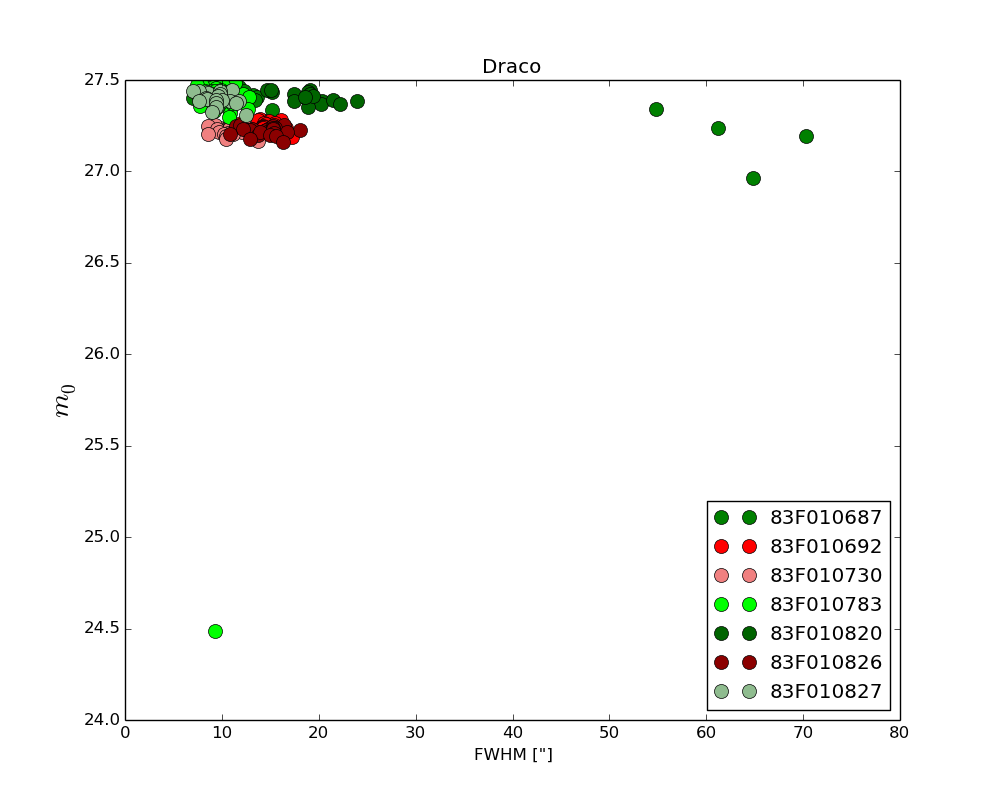
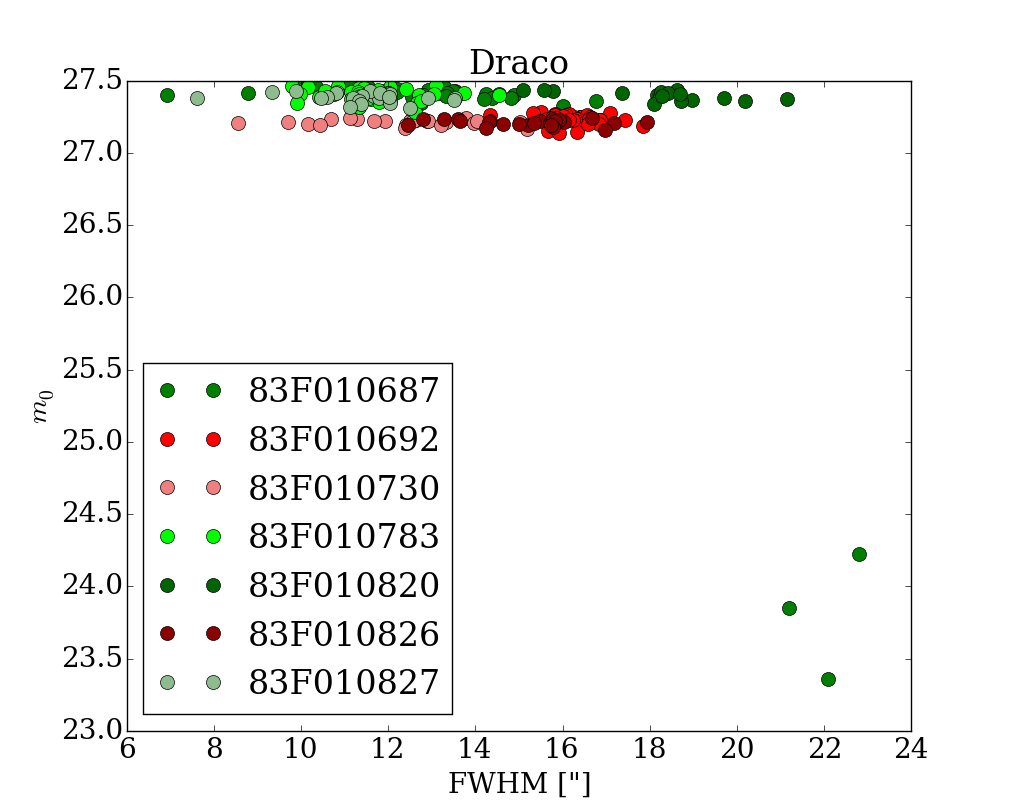
Added a column

diff --git a/plotstats.py b/plotstats.py
@@ -2,7 +2,7 @@ from numpy import *
 import matplotlib.pyplot as plt
 plt.ion()
 
-outlierremove = False
+outlierremove = True
 
 stats = loadtxt('stats/stats.txt',dtype = 'str')
 
